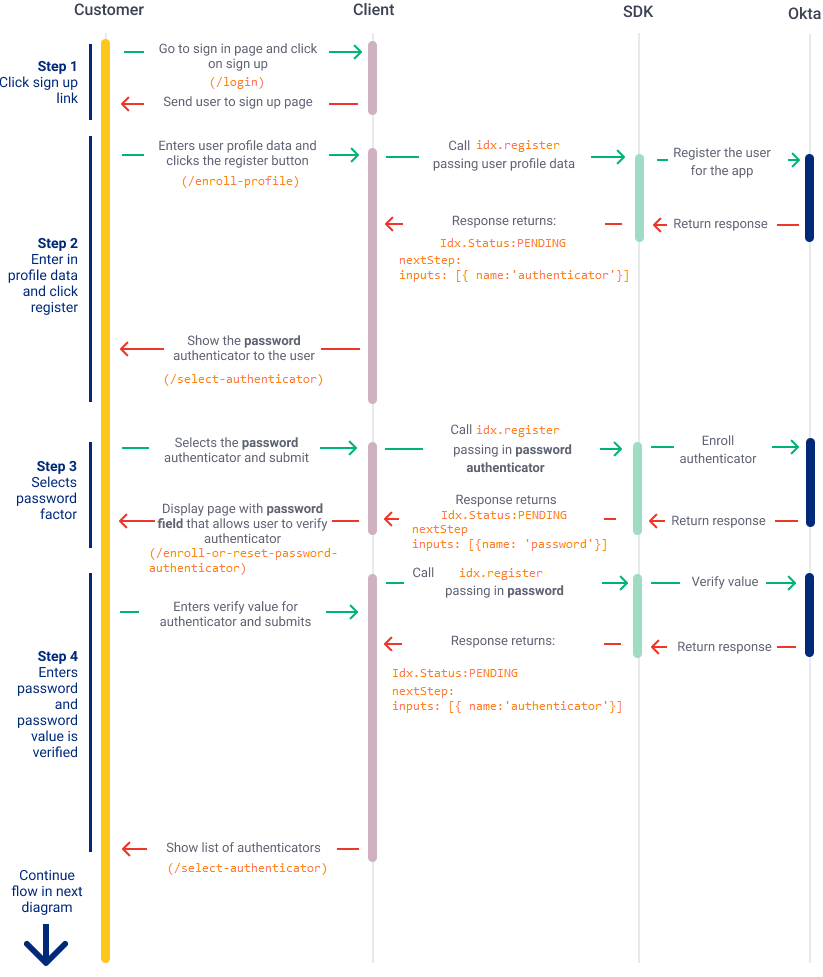
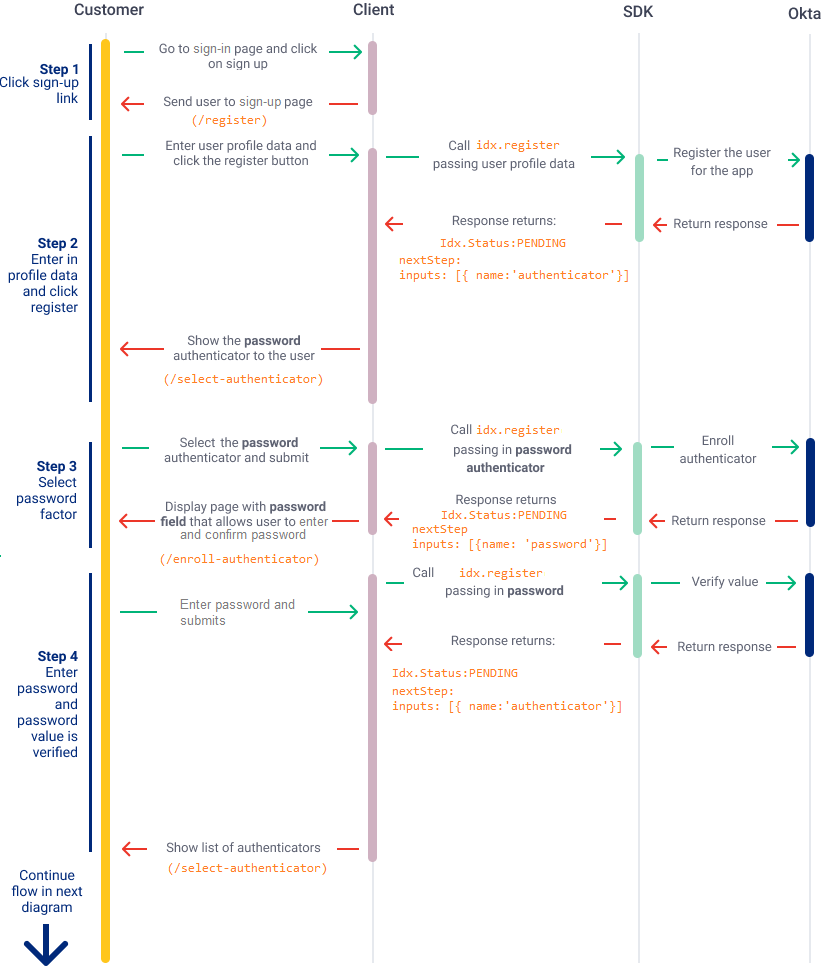
OIE Updates - Nodejs SDK Self-Registration Use Case (#2406)
Updates to the OIE SDK Use-Case for Self-Registration (Node.js language stack selector): new images, updated alt-text, and minor text updates.

* Updates to sequence diagrams for style and naming conventions

* Initial updates to integration page

* Adding nodejs sample app images, alt-text, and minor tweaks to integration steps

* Modifications to some images and text as per local review

* Update packages/@okta/vuepress-site/docs/guides/oie-embedded-sdk-use-cases/oie-embedded-sdk-use-case-self-reg/nodejs/integrationsteps.md

* Update packages/@okta/vuepress-site/docs/guides/oie-embedded-sdk-use-cases/oie-embedded-sdk-use-case-self-reg/nodejs/integrationsteps.md

* Update packages/@okta/vuepress-site/docs/guides/oie-embedded-sdk-use-cases/oie-embedded-sdk-use-case-self-reg/nodejs/integrationsteps.md

* Update packages/@okta/vuepress-site/docs/guides/oie-embedded-sdk-use-cases/oie-embedded-sdk-use-case-self-reg/nodejs/integrationsteps.md

* Update packages/@okta/vuepress-site/docs/guides/oie-embedded-sdk-use-cases/oie-embedded-sdk-use-case-self-reg/nodejs/integrationsteps.md

* Update packages/@okta/vuepress-site/docs/guides/oie-embedded-sdk-use-cases/oie-embedded-sdk-use-case-self-reg/nodejs/integrationsteps.md

* Update packages/@okta/vuepress-site/docs/guides/oie-embedded-sdk-use-cases/oie-embedded-sdk-use-case-self-reg/nodejs/integrationsteps.md
[…]

diff --git a/packages/@okta/vuepress-site/docs/guides/oie-embedded-sdk-use-cases/oie-embedded-sdk-use-case-self-reg/nodejs/integrationsteps.md b/packages/@okta/vuepress-site/docs/guides/oie-embedded-sdk-use-cases/oie-embedded-sdk-use-case-self-reg/nodejs/integrationsteps.md
@@ -1,21 +1,26 @@
 ### Step 1: Create a sign-up link for new users
 
-The self-registration flow begins when the user clicks a **Sign up** link. On the sign-in page, create a **Sign up** link that links to the create account page that you create in the next step,  as shown in the following example.
-
+The self-registration flow begins when the user clicks the **Sign Up** link (or **Register** from the SDK sample application home page). On the sign-in page, create a **Sign Up** link that links to the create account page that you create in the next step, as shown in the following example.
 
 <div class="common-image-format">
 
-![Displays a sign-up link screenshot that directs to a sign-up page. ](/img/oie-embedded-sdk/oie-embedded-sdk-use-case-simple-self-serv-screen-sign-up.png)
+![Displays a sign-up link screenshot that directs to a sign-up page. ](/img/oie-embedded-sdk/oie-embedded-sdk-use-case-simple-sign-on-screenshot-sign-in-nodejs.png)
 
 </div>
 
-> **Note:** The **Sign up** link appears under the **Continue** button.
+> **Note:** The **Sign Up** link appears under the **Forgot your password?** link.
 
 ### Step 2: Enter information in the create account page
 
-The next step is to enter basic information (for example, email, first, and last name). Create a page that accepts this information. The following shows an example of a create account page.
+The next step is to enter basic information (for example, email, first name, and last name). Create a page that accepts this information. The following example shows a create account page.
 
-When the user clicks **Register**, pass the user profile data captured from the Create account page into the `idx.register` method, as shown in the `register.js` page of the SDK sample application:
+<div class="common-image-format">
+
+![Displays a Self-Service Registration page screenshot that includes fields for the first name, last name and email address. A Register button starts the self-registration flow. ](/img/oie-embedded-sdk/oie-embedded-sdk-use-case-simple-self-serv-screen-enroll-user-nodejs.png)
+
+</div>
+
+When the user clicks **Register**, pass the user profile data that is captured from the Create account page into the `idx.register` method, as shown in `register.js` of the SDK sample application:
 
 ```JavaScript
 router.post('/register', async (req, res, next) => {
@@ -51,7 +56,21 @@ If the org's application is properly configured with multiple factors, `idx.regi
 
 ### Step 3: User enters password authenticator and password
 
-After the user enters the password authenticator value, and `idx.register` is called with this value, the response returns a status of `Idx.Status:PENDING` and a `nextStep` field requiring a password value. The user is directed to a page to enroll a password value, as shown in the SDK sample application route to `/enroll-or-reset-password-authenticator`.
+Create a page that displays an authenticator enrollment selection. In this example, the password is configured.
+
+<div class="common-image-format">
+
+![Displays a Select authenticator page screenshot that includes a selection for the password. A Select button continues the flow.](/img/oie-embedded-sdk/oie-embedded-sdk-use-case-simple-self-serv-screen-enroll-pwd-auth-nodejs.png)
+
+</div>
+
+After the user enters the password authenticator value, and `idx.register` is called with this value, the response returns a status of `Idx.Status:PENDING` and a `nextStep` field that requires the user to enter a password value. The user is directed to a page to set up a password value, as shown in the SDK sample application route to `/enroll-authenticator`.
+
+<div class="common-image-format">
+
+![Displays a Set up password page screenshot that includes fields for password and re-enter password. A Next button continues the flow.](/img/oie-embedded-sdk/oie-embedded-sdk-use-case-simple-self-serv-screen-set-up-pwd-nodejs.png)
+
+</div>
 
 ### Step 4: User submits password
 
@@ -59,11 +78,23 @@ After the user submits a password, call `idx.register` passing in this value for
 
 See [idx.register](https://github.com/okta/okta-auth-js/blob/master/docs/idx.md#idxregister) for more details on the self-registration flow.
 
+<div class="common-image-format">
+
+![Displays a Select authenticator page screenshot that includes a selection for email. A Select button continues the flow.](/img/oie-embedded-sdk/oie-embedded-sdk-use-case-simple-self-serv-screen-enroll-email-auth-nodejs.png)
+
+</div>
+
 ### Step 5: User selects email authenticator
 
 In this use case, the user selects the **Email** factor as the authenticator to verify. Pass this user-selected authenticator to `idx.register`.
 
- If the call is successful, the method returns a status of `Idx.Status:PENDING` and a `nextStep` field requiring verification, which indicates that the SDK is ready for the email verification code. The next step is to redirect the user to the email verification code page, as shown in the SDK sample application route to `/authenticator`.
+ If the call is successful, the method returns a status of `Idx.Status:PENDING` and a `nextStep` field that requires verification, which indicates that the SDK is ready for the email verification code. The next step is to redirect the user to the email verification code page, as shown in the SDK sample application route to `/enroll-authenticator`.
+
+<div class="common-image-format">
+
+![Displays an Enroll email authenticator page screenshot that includes the field for the email verification code. A Verify button continues the flow.](/img/oie-embedded-sdk/oie-embedded-sdk-use-case-simple-self-serv-screen-email-verify-nodejs.png)
+
+</div>
 
 ### Step 6: User submits email verification code
 
@@ -71,11 +102,17 @@ The next step is to call `idx.register` again passing in the verification code. 
 
 Based on the configuration described in [Set up your Okta org for multifactor use cases](/docs/guides/oie-embedded-common-org-setup/java/main/#set-up-your-okta-org-for-multifactor-use-cases), the app in this use case is set up to require one possession factor (either email or phone). After the email factor is verified, the phone factor becomes optional. In this step, the `nextStep` field can include `canSkip` for the phone authenticator. You can build a **Skip** button in your form to allow the user to skip the optional phone factor.
 
+<div class="common-image-format">
+
+![Displays a Select authenticator page screenshot that includes a selection for Phone authentication. A Select button continues the flow. A Skip button skips the phone authentication flow. ](/img/oie-embedded-sdk/oie-embedded-sdk-use-case-simple-self-serv-screen-phone-auth-and-skip-nodejs.png)
+
+</div>
+
 If the user decides to skip the optional factor, they are considered signed in since they have already verified the required factors. See [Step 8, Option 1: Skip phone factor](#step-8-option-1-skip-phone-factor) for the skip authenticator flow. If the user decides to select the optional factor, see [Step 8, Option 2: User selects phone authenticator](#step-8-option-2-user-selects-phone-authenticator) for the optional phone authenticator flow.
 
 ### Step 7, Option 1: Skip phone factor
 
-If the user decides to skip the phone factor enrollment, make a call to `idx.register` passing in the value `{skip: true}`. This method skips the authenticator enrollment, as shown on the `Authenticator.js` from the SDK sample application.
+If the user decides to skip the phone factor enrollment, make a call to `idx.register` passing in the value `{skip: true}`. This method skips the authenticator enrollment, as shown in `Authenticator.js` from the SDK sample application.
 
 ```JavaScript
 router.post('/select-authenticator/skip', async (req, res, next) => {
@@ -90,17 +127,31 @@ If the request to skip the optional authenticator is successful, the SDK returns
 
 ### Step 7, Option 2: User selects phone authenticator
 
-After the user selects the phone authenticator value, and `idx.register` is called with this value, the response returns a status of `Idx.Status:PENDING` and a `nextStep` field requiring phone registration data, including phone number and verification method: SMS or voice. The user is directed to a page to enroll phone data, as shown in the SDK sample application route to `/phone-enrollment-data`.
+After the user selects the phone authenticator value, and `idx.register` is called with this value, the response returns a status of `Idx.Status:PENDING` and a `nextStep` field that requires phone registration data, which includes the phone number and verification method (SMS or voice). The user is directed to a page to enroll the phone data:
 
-### Step 8, Option 2: User selects SMS verify method
+<div class="common-image-format">
 
-The user can selects SMS or voice verification to receive the phone verification code. Capture this information and send it to`idx.register`. In this use case, use SMS.
+![Displays an Enroll phone authenticator page screenshot that includes a selection for Phone verification method (SMS) and a field for the phone number. A Next button continues the flow.](/img/oie-embedded-sdk/oie-embedded-sdk-use-case-simple-self-serv-screen-enroll-phone-auth-nodejs.png)
 
-The Auth JS SDK sends the phone authenticator data to Okta. Otka processes the request and sends an SMS code to the specified phone number. After the SMS code is sent, Okta sends a response to the SDK, which returns `Idx.Status:PENDING` and the `nextStep` field requiring verification. This status indicates that the user needs to provide the verification code for the phone authenticator, as shown in the SDK sample application route to `/authenticator`.
+</div>
+
+### Step 8, Option 2: User selects SMS verify method and enters phone number
+
+The user can select SMS or voice verification to receive the phone verification code. Capture this information and send it to`idx.register`. In this use case, use SMS. The user then enters the phone number where the SMS code is sent.
+
+>**Note:** The SDK requires that the phone number follows the `+########` format, which starts with a (+) sign. See [Data Requirements - Phone number](/docs/guides/oie-embedded-sdk-common/nodejs/main/#phone-number).
+
+The SDK sends the phone authenticator data to Okta, processes the request, and sends an SMS code to the specified phone number. After the SMS code is sent, Okta sends a response to the SDK, which returns `Idx.Status:PENDING` and the `nextStep` field requiring verification. This status indicates that the user needs to provide the verification code for the phone authenticator:
+
+<div class="common-image-format">
+
+![Displays an Enroll phone authenticator page screenshot that includes a field to enter the phone (SMS) verification code. A Verify button continues the flow.](/img/oie-embedded-sdk/oie-embedded-sdk-use-case-simple-self-serv-screen-enroll-phone-verify-nodejs.png)
+
+</div>
 
 ### Step 9, Option 2: User submits SMS verification code
 
-The user receives the verification code as an SMS on their phone and submits it in the verify code form. Send this code to `idx.register`.
+The user receives the verification code as an SMS message on their phone and submits it in the verify code form. Send this code to `idx.register`.
 
 If the request to verify the code is successful, the SDK returns a status of `Idx.Status:SUCCESS` and saves tokens to storage, as shown on `handleTransaction.js` of the SDK sample application.
 

diff --git a/packages/@okta/vuepress-site/docs/guides/oie-embedded-sdk-use-cases/oie-embedded-sdk-use-case-self-reg/nodejs/summaryofsteps.md b/packages/@okta/vuepress-site/docs/guides/oie-embedded-sdk-use-cases/oie-embedded-sdk-use-case-self-reg/nodejs/summaryofsteps.md
@@ -1,6 +1,6 @@
 # Summary of steps
 
-The sequence of steps for self-service registration is described in the following three sequence diagrams:
+The following sequence diagrams show the sequence of steps for self-service registration:
 
 ### Diagram 1: Start new user registration with password factor
 
